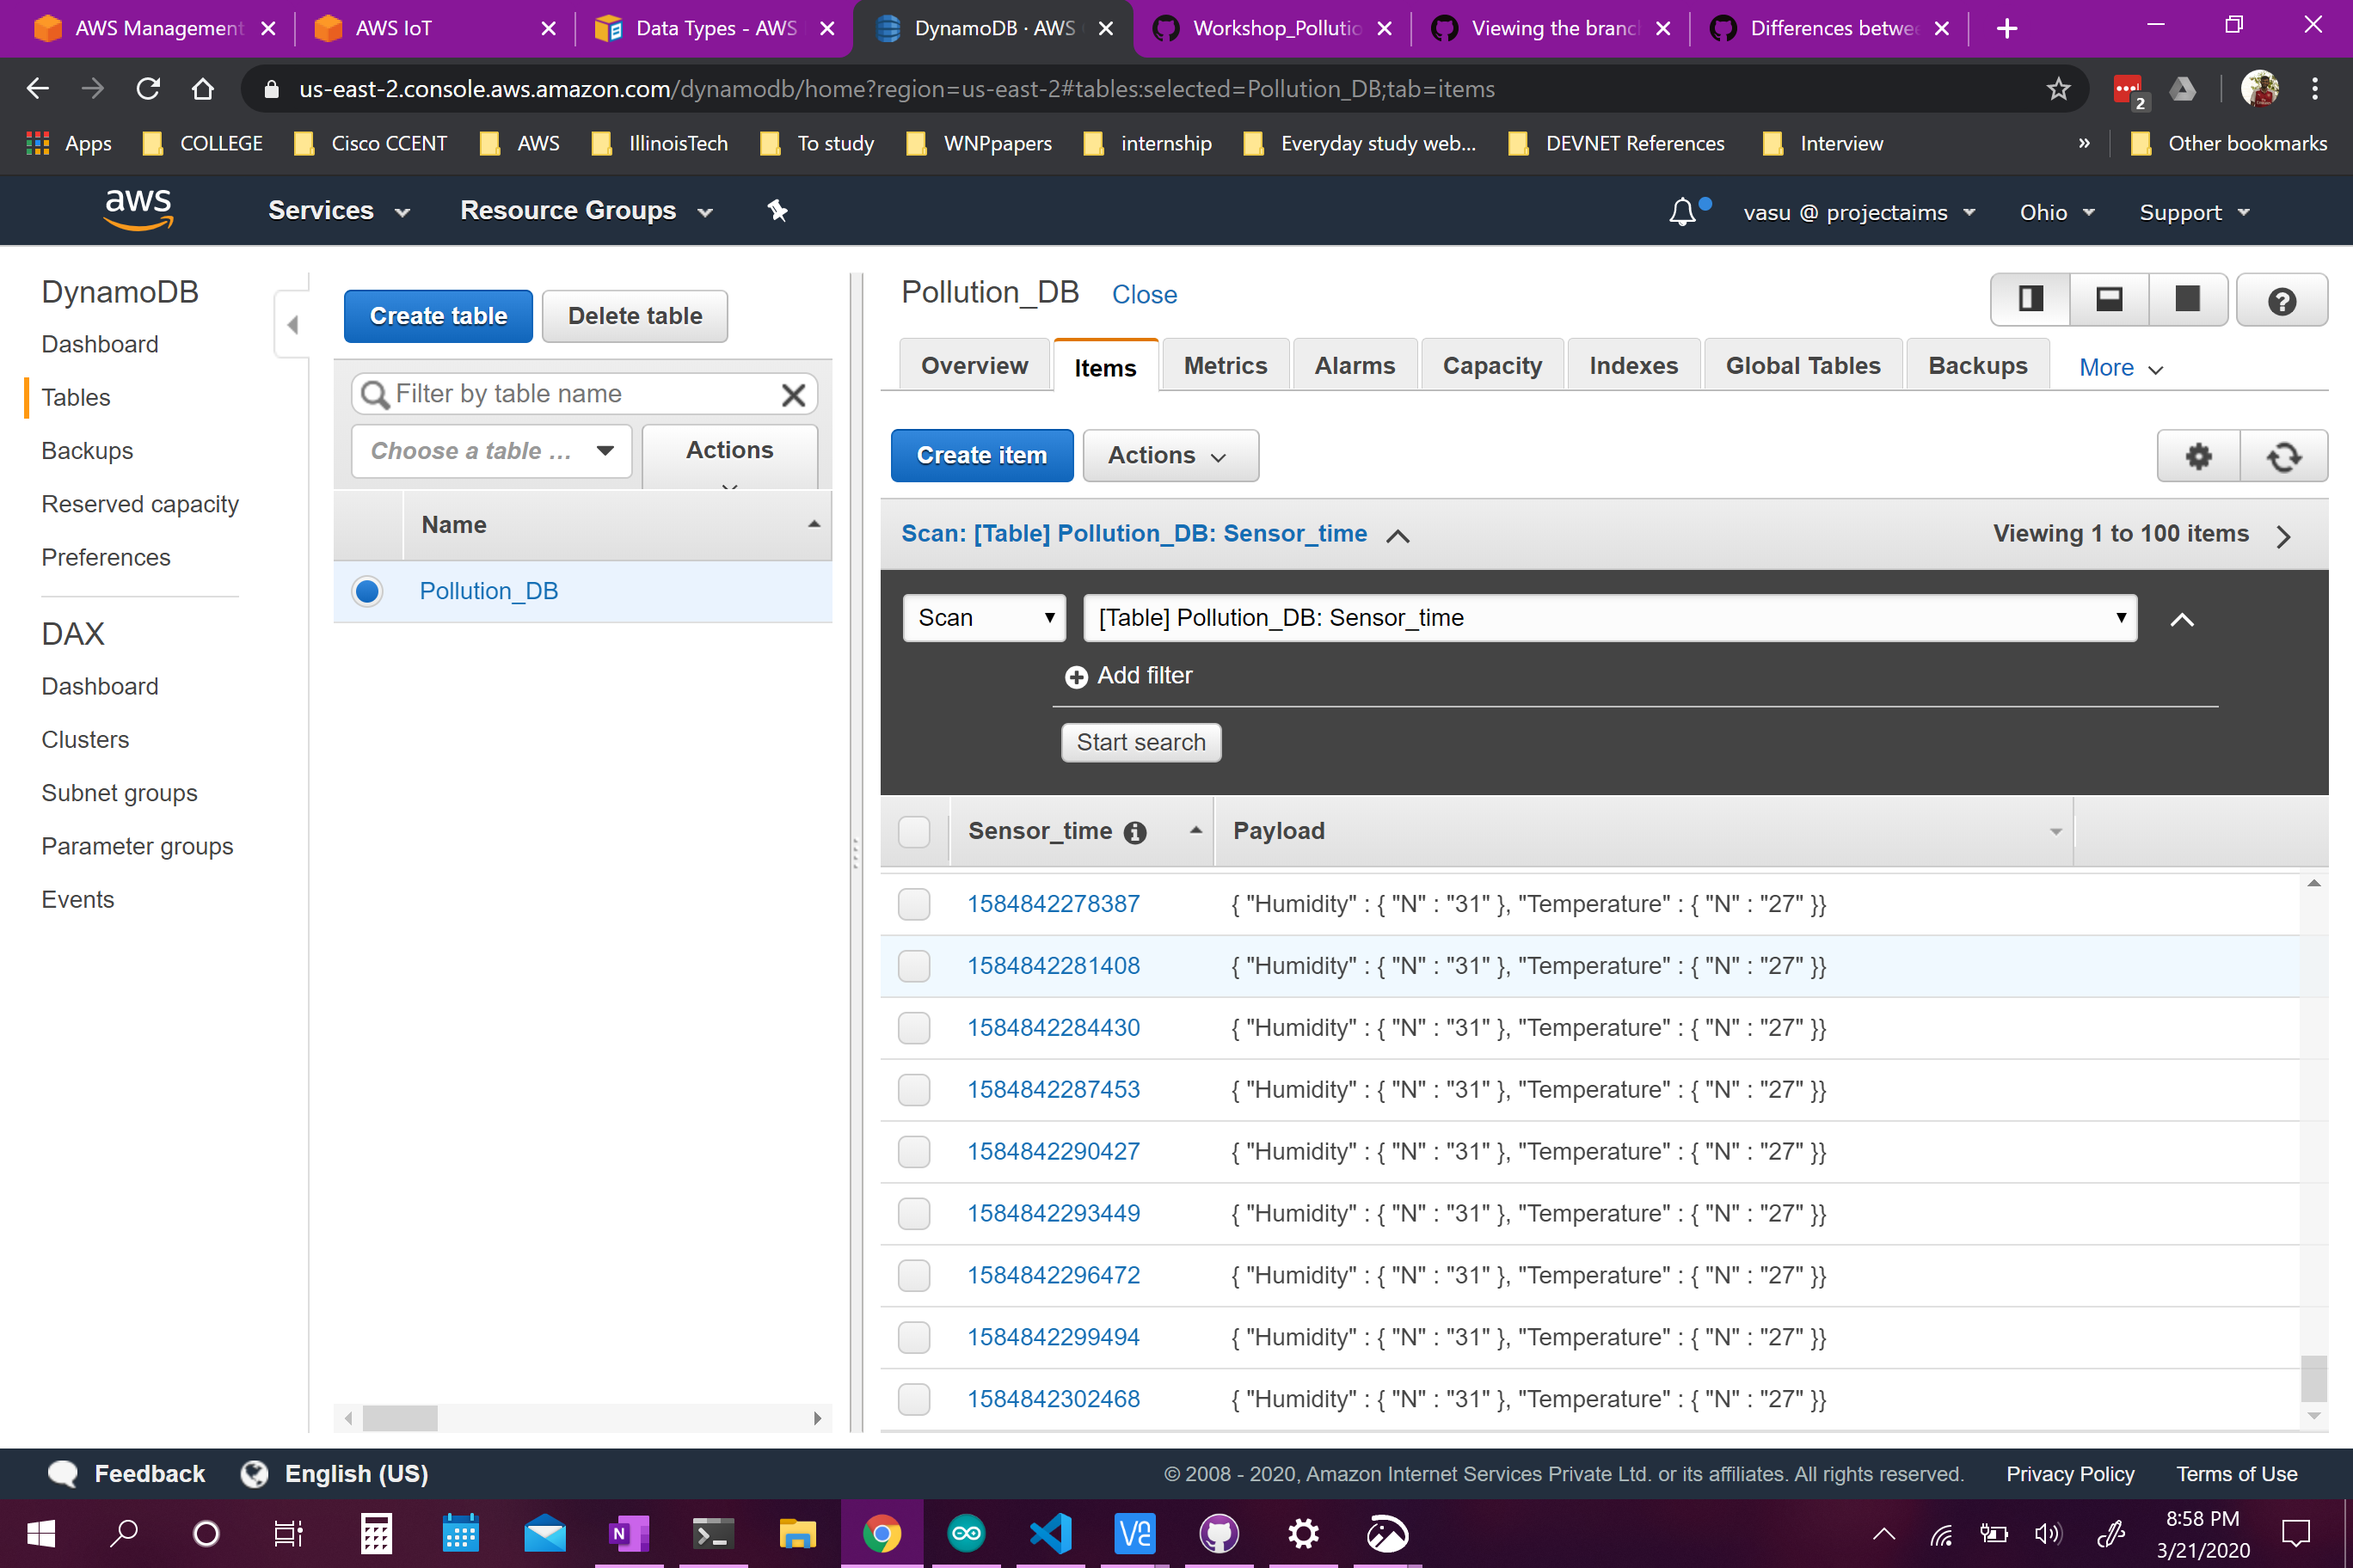
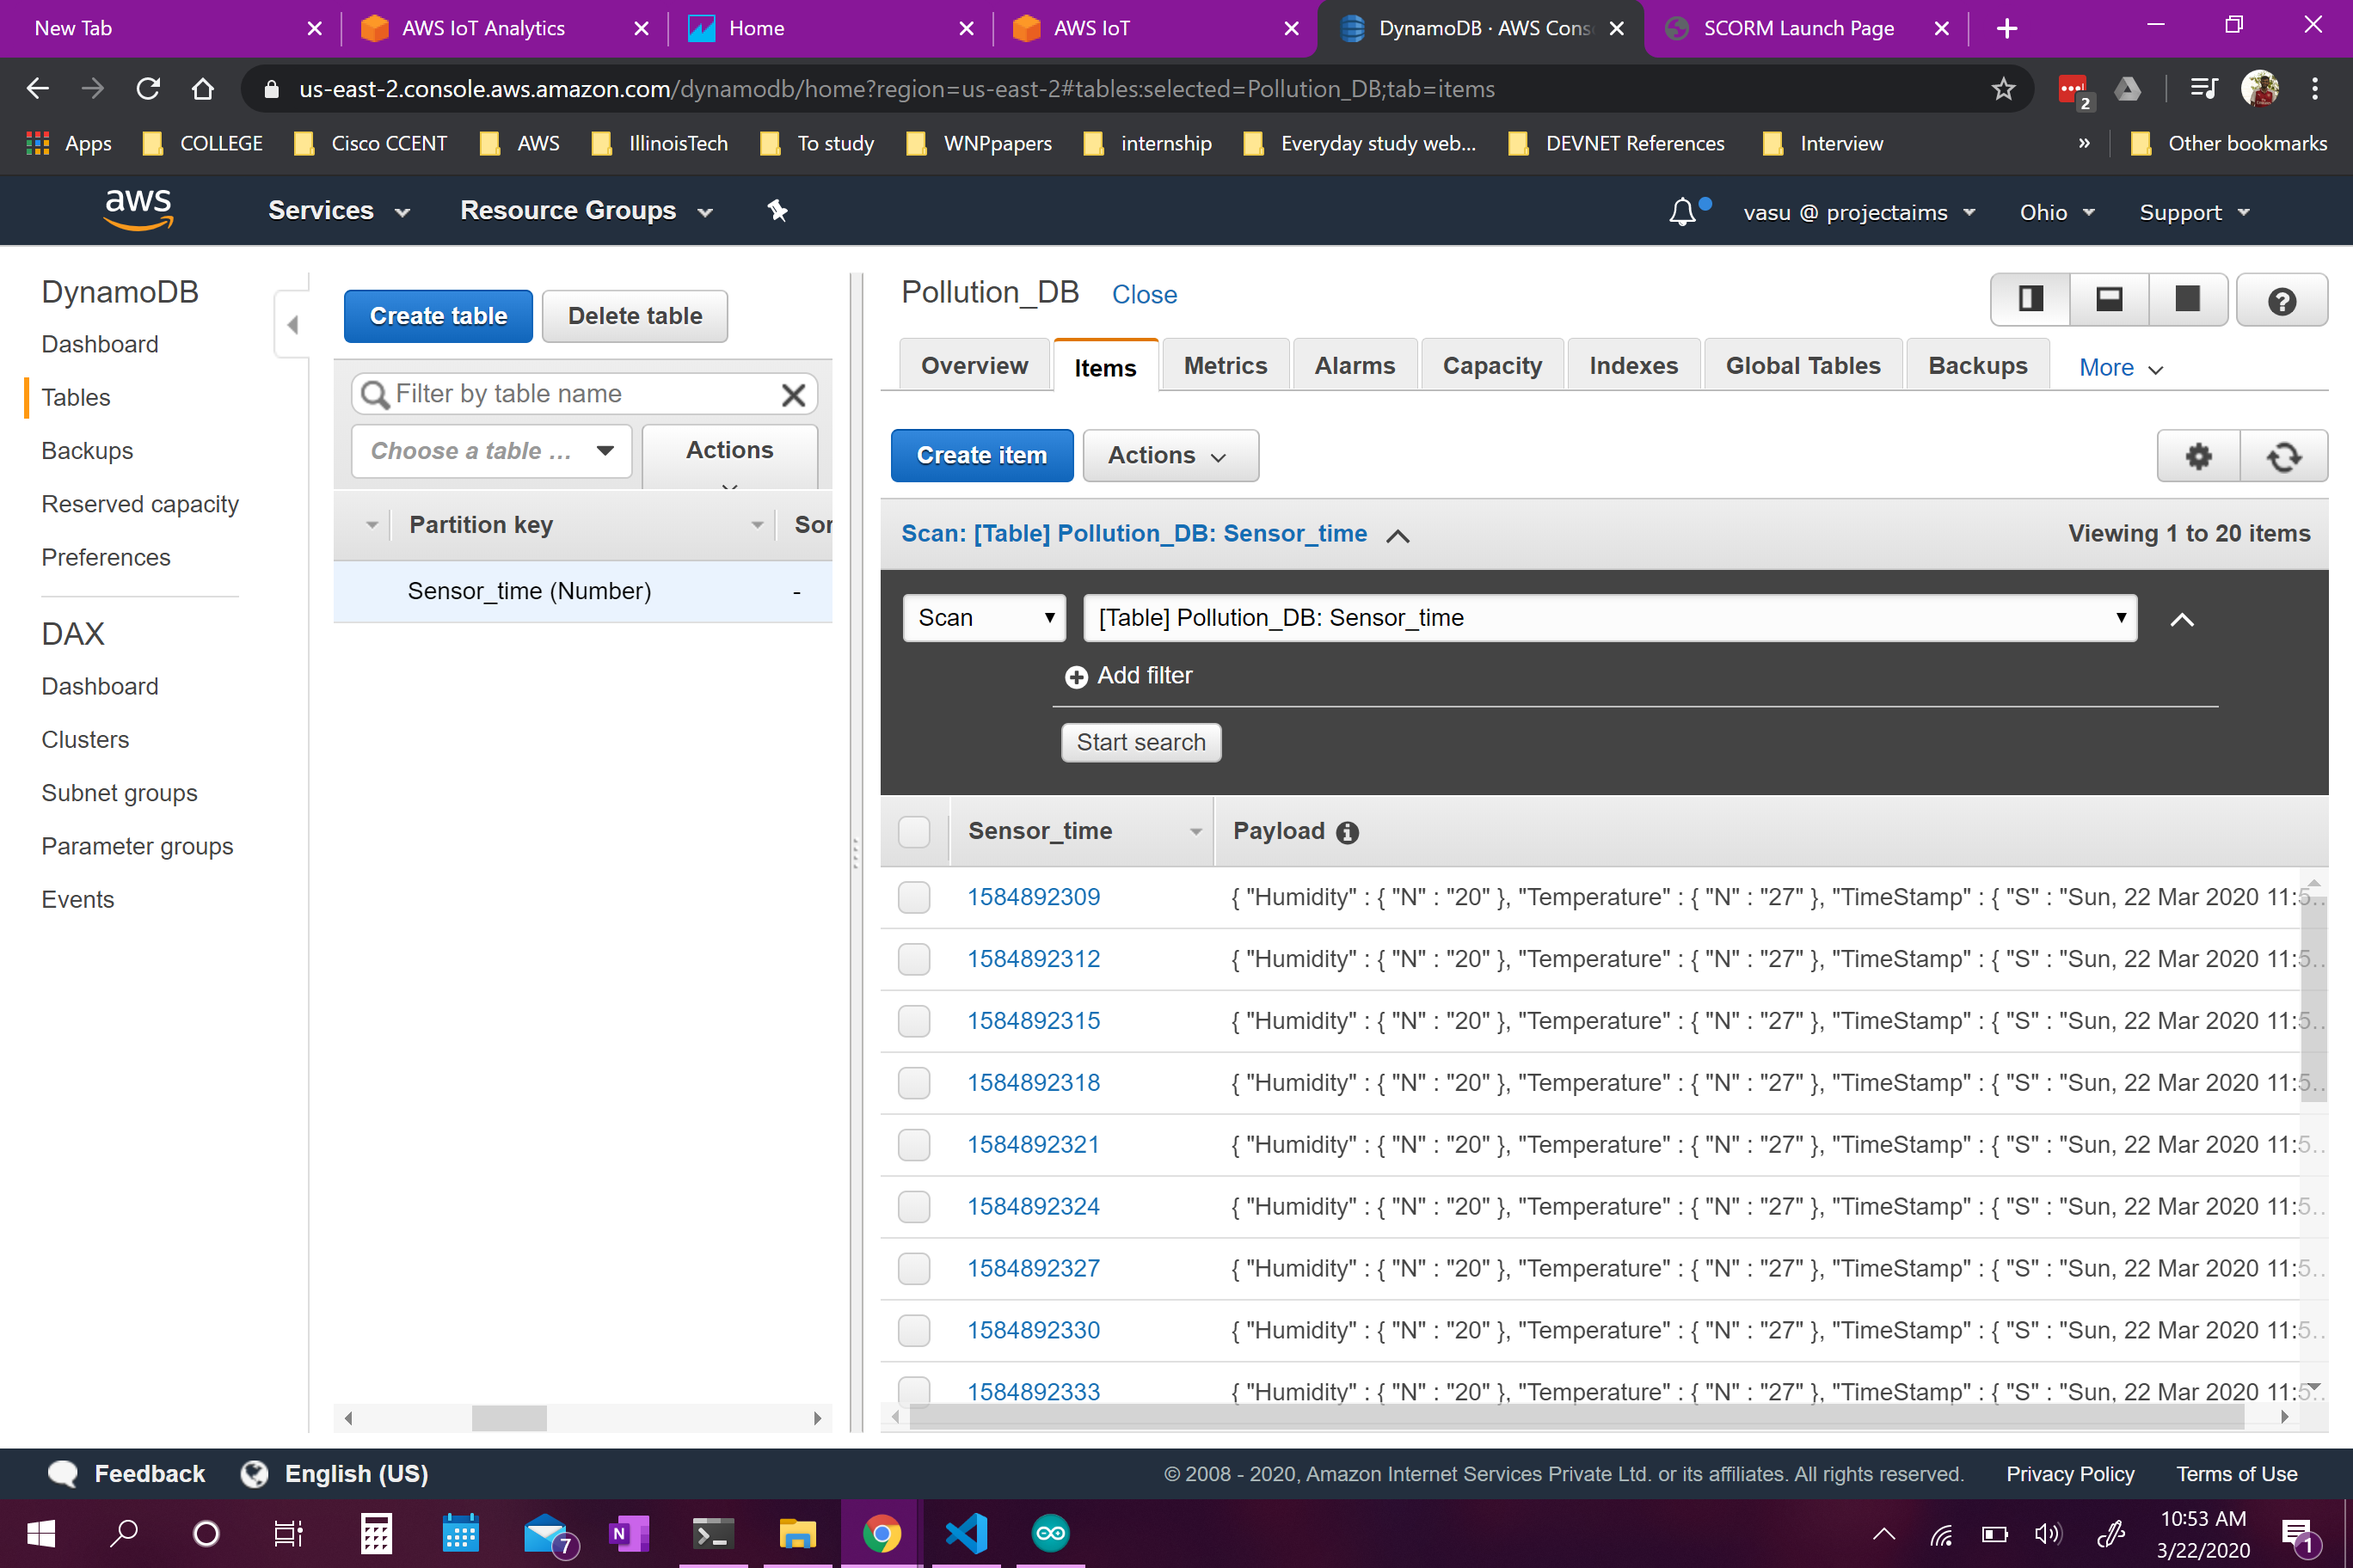
for analytics

diff --git a/ble_rx.py b/ble_rx.py
@@ -57,7 +57,8 @@ if __name__ == "__main__":
         humidity_int = converter(humidity)
         milli = int(round(time.time()))
         current_time = time.strftime("%a, %d %b %Y %H:%M:%S %Z", time.localtime(milli))
-        sensor_data = {"Sensor_time": milli, "Temperature": temp_int, "Humidity": humidity_int, "TimeStamp": current_time}
+        only_time = time.strftime("%H:%M:%S", time.localtime(milli))
+        sensor_data = {"Sensor_time": milli, "Temperature": temp_int, "Humidity": humidity_int, "TimeStamp": current_time, "Time": only_time}
         sensor_json = json.dumps(sensor_data)
         myAWSIoTMQTTClient.publish(topic, sensor_json, 1)
         print('Published Topic %s: %s \n' % (topic, sensor_json))
